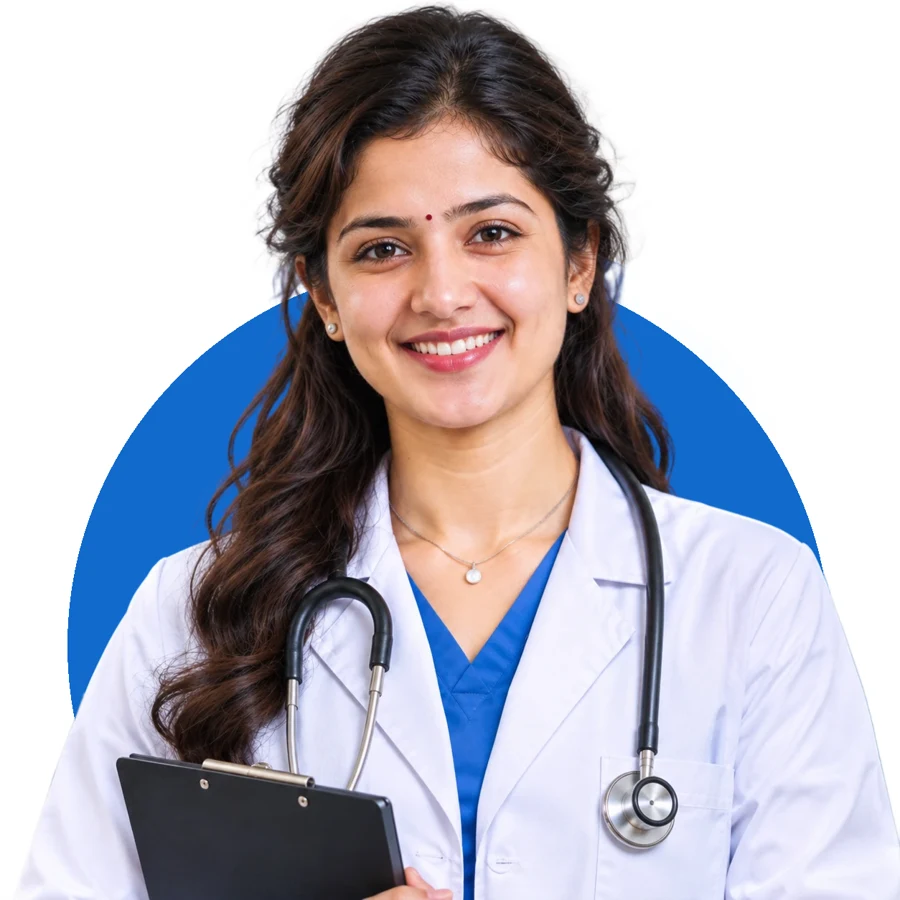
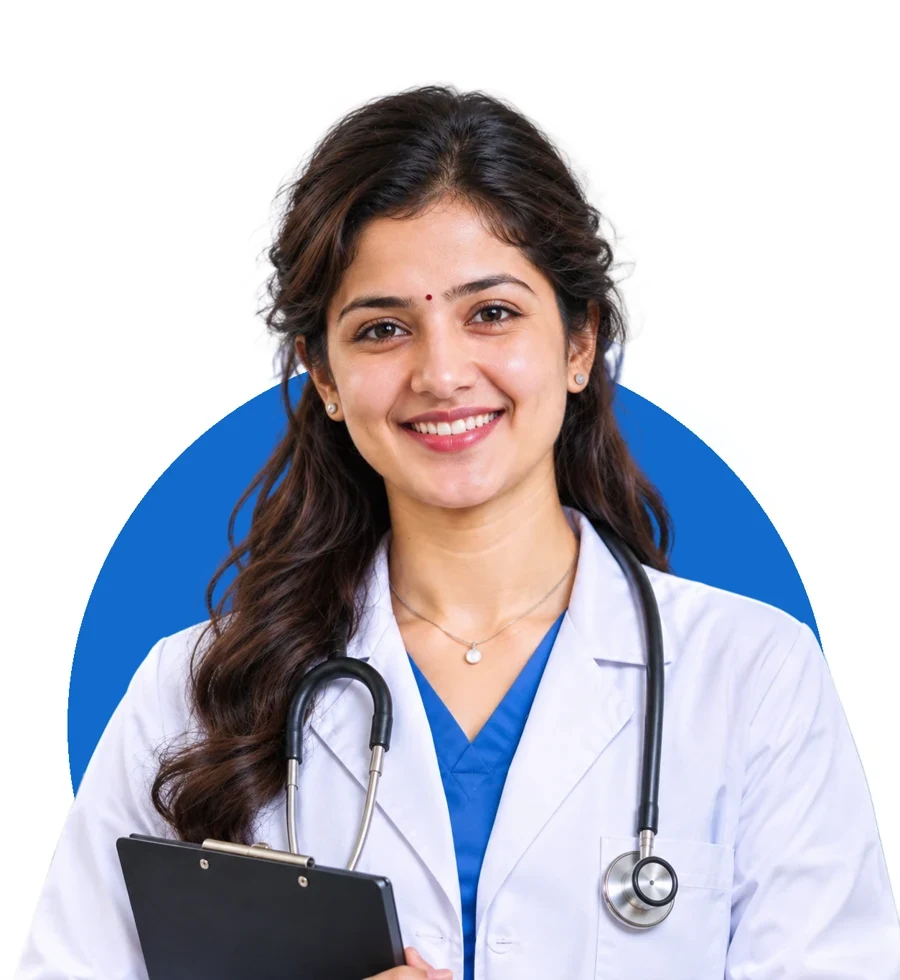
Fix faded hair at top of hero photo
Claude-Session: https://claude.ai/code/session_01QaGxT8Mz6PSp9cdSWs8MVu

diff --git a/src/components/Hero.jsx b/src/components/Hero.jsx
@@ -32,7 +32,7 @@ export default function Hero() {
               src="/images/hero.webp"
               alt={text.hero.imageAlt}
               width="900"
-              height="900"
+              height="980"
               fetchpriority="high"
               className="w-full mix-blend-multiply"
               style={{ WebkitMaskImage: 'linear-gradient(to right, transparent, #000 6%, #000 94%, transparent), linear-gradient(to bottom, transparent, #000 6%)', WebkitMaskComposite: 'source-in', maskImage: 'linear-gradient(to right, transparent, #000 6%, #000 94%, transparent), linear-gradient(to bottom, transparent, #000 6%)', maskComposite: 'intersect' }}
